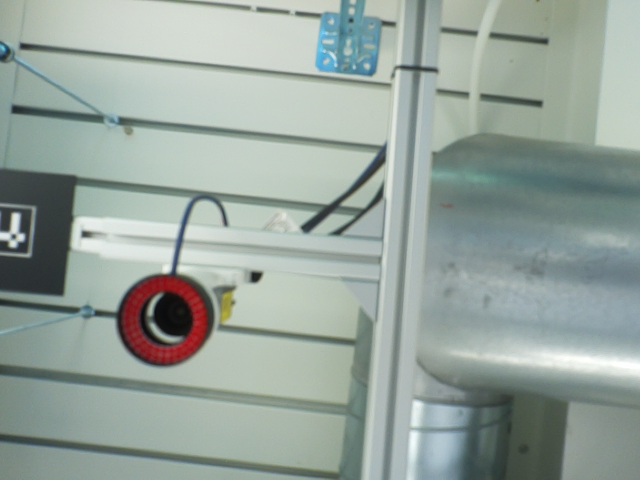
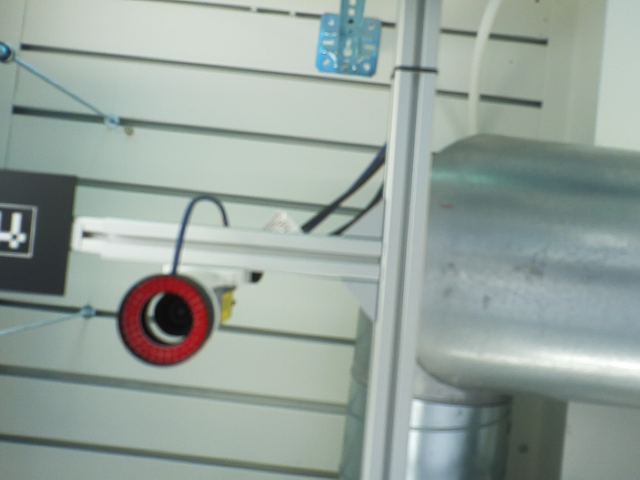
trials

diff --git a/calibration/take_images.py b/calibration/take_images.py
@@ -5,10 +5,11 @@ import time
 
 picam2 = Picamera2()
 picam2.configure(picam2.create_preview_configuration(main={"format": 'XRGB8888', "size": (640, 480)}))
+picam2.set_controls({"AfMode": controls.AfModeEnum.Manual, "LensPosition": 2.32}) 
 picam2.start()
-picam2.set_controls({"AfMode": controls.AfModeEnum.Manual, "LensPosition": 0.1}) 
+
 print(picam2)
-num = 110
+num = 111
 
 while True:
     frame = picam2.capture_array()
